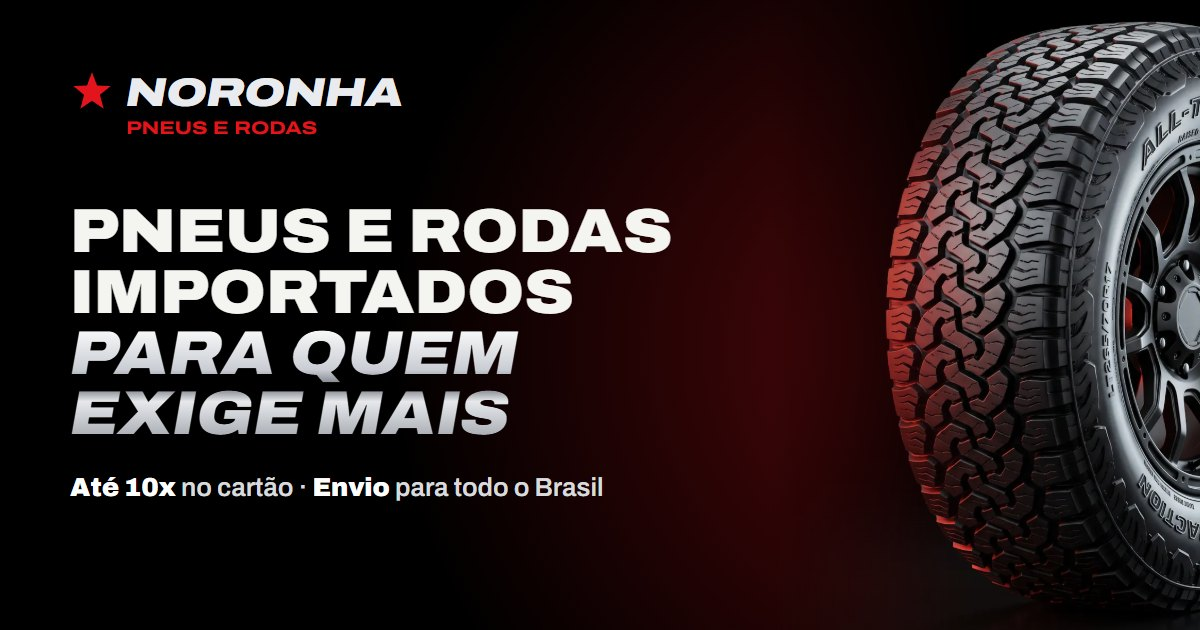
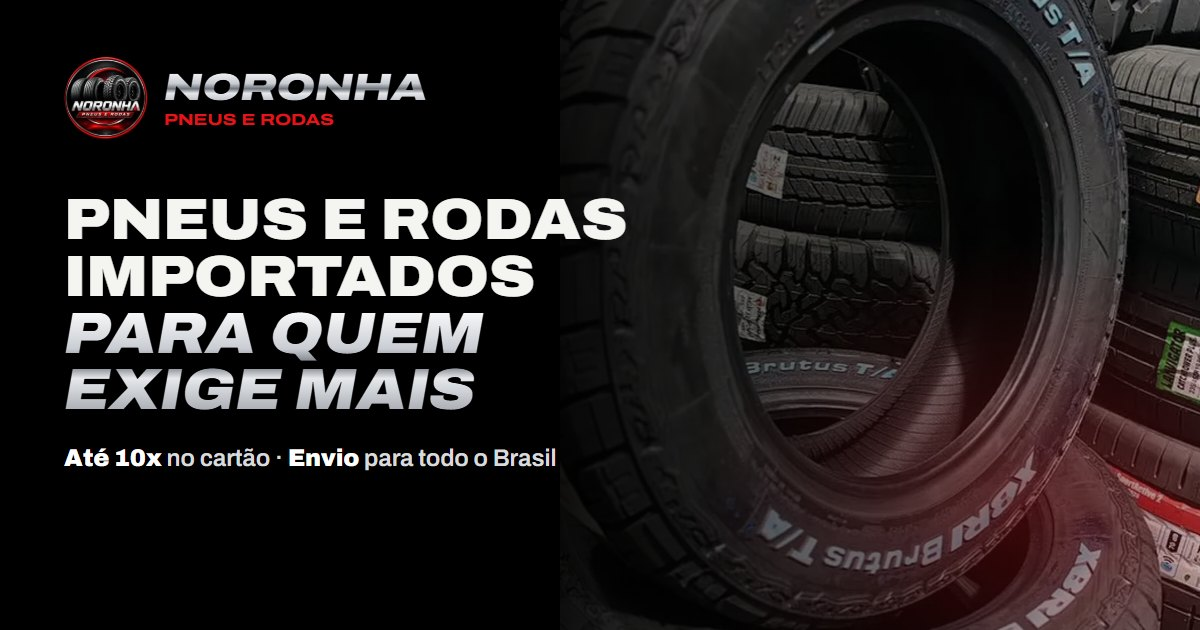
Imagem de compartilhamento com foto real e correção do título no celular

diff --git a/index.html b/index.html
@@ -21,7 +21,7 @@
   <meta property="og:image" content="https://www.noronhapneus.com.br/assets/og-image.jpg">
   <meta property="og:image:width" content="1200">
   <meta property="og:image:height" content="630">
-  <meta property="og:image:alt" content="Pneus Xbri embalados no estoque da Noronha Pneus e Rodas">
+  <meta property="og:image:alt" content="Pilha de pneus Xbri Brutus T/A no estoque da Noronha Pneus e Rodas">
   <meta name="twitter:card" content="summary_large_image">
   <meta name="twitter:title" content="Noronha Pneus e Rodas">
   <meta name="twitter:description" content="Pneus e rodas importados, com garantia, em até 10x e com envio para todo o Brasil.">

diff --git a/css/style.css b/css/style.css
@@ -182,7 +182,7 @@ button, input, select { font: inherit; color: inherit; }
 .hero {
   position: relative; overflow: hidden;
   min-height: 100svh;
-  display: grid; align-items: center;
+  display: grid; grid-template-columns: minmax(0, 1fr); align-items: center;
   padding: 150px var(--borda) 80px;
 }
 .parede {
